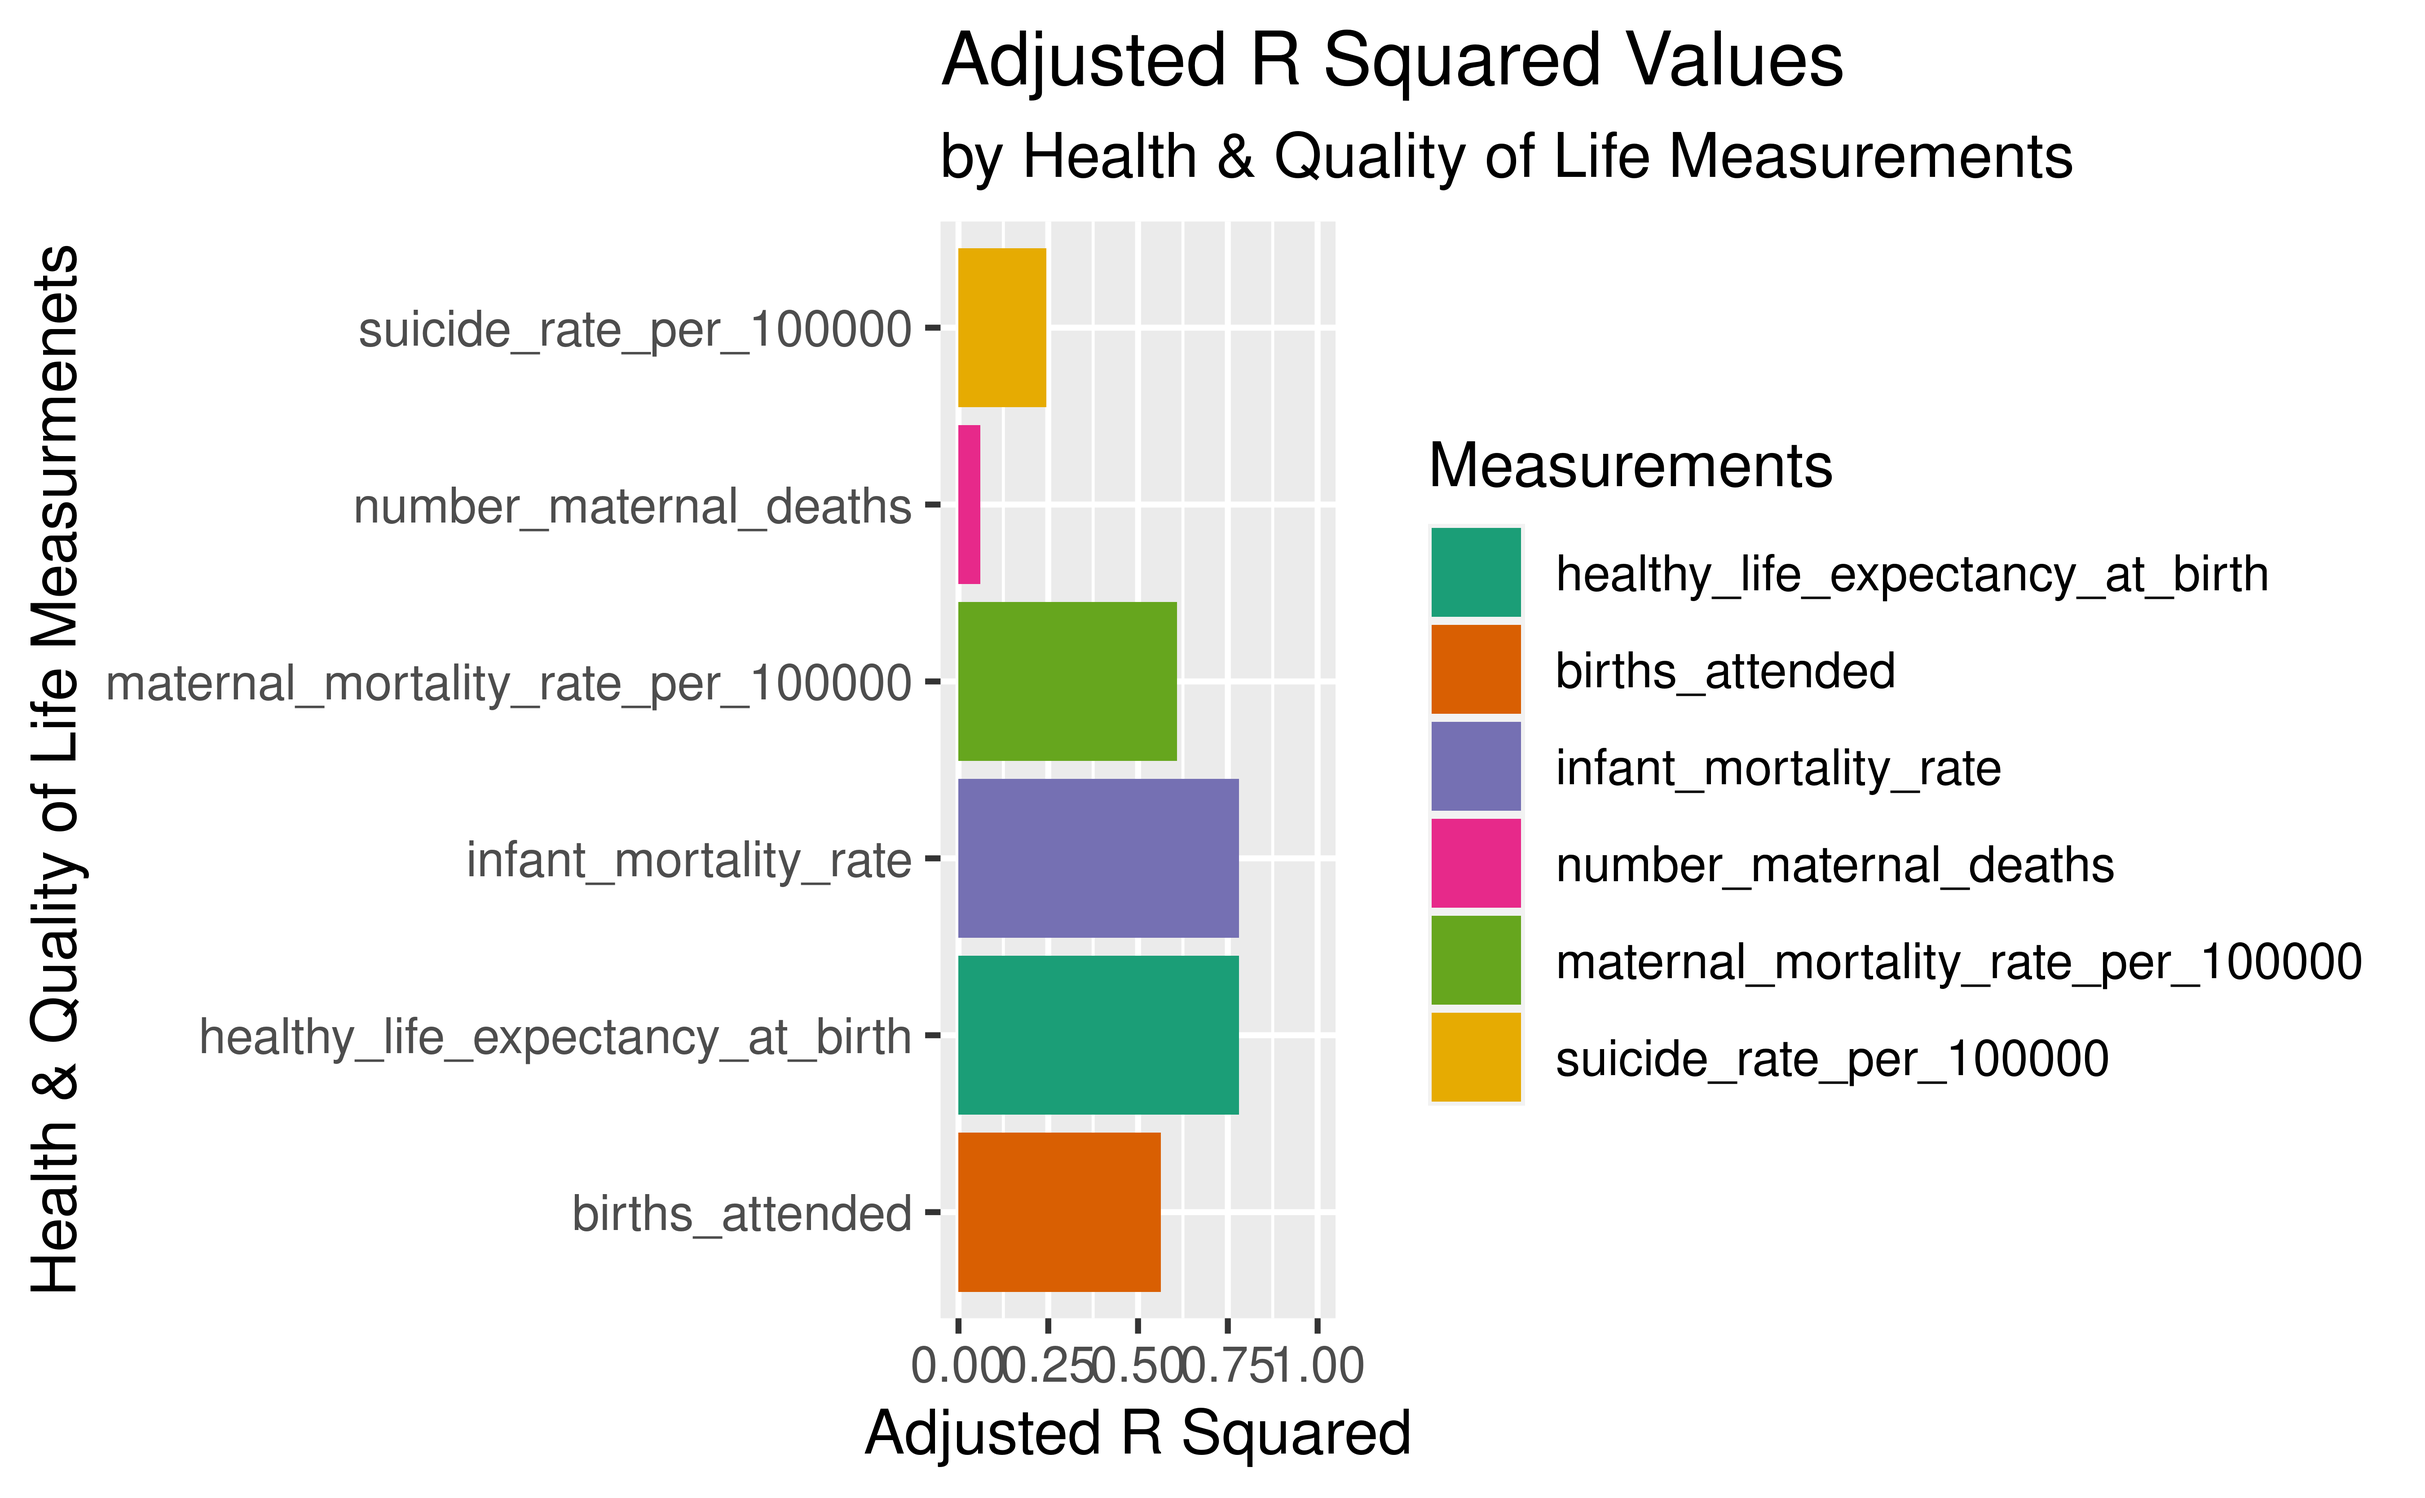
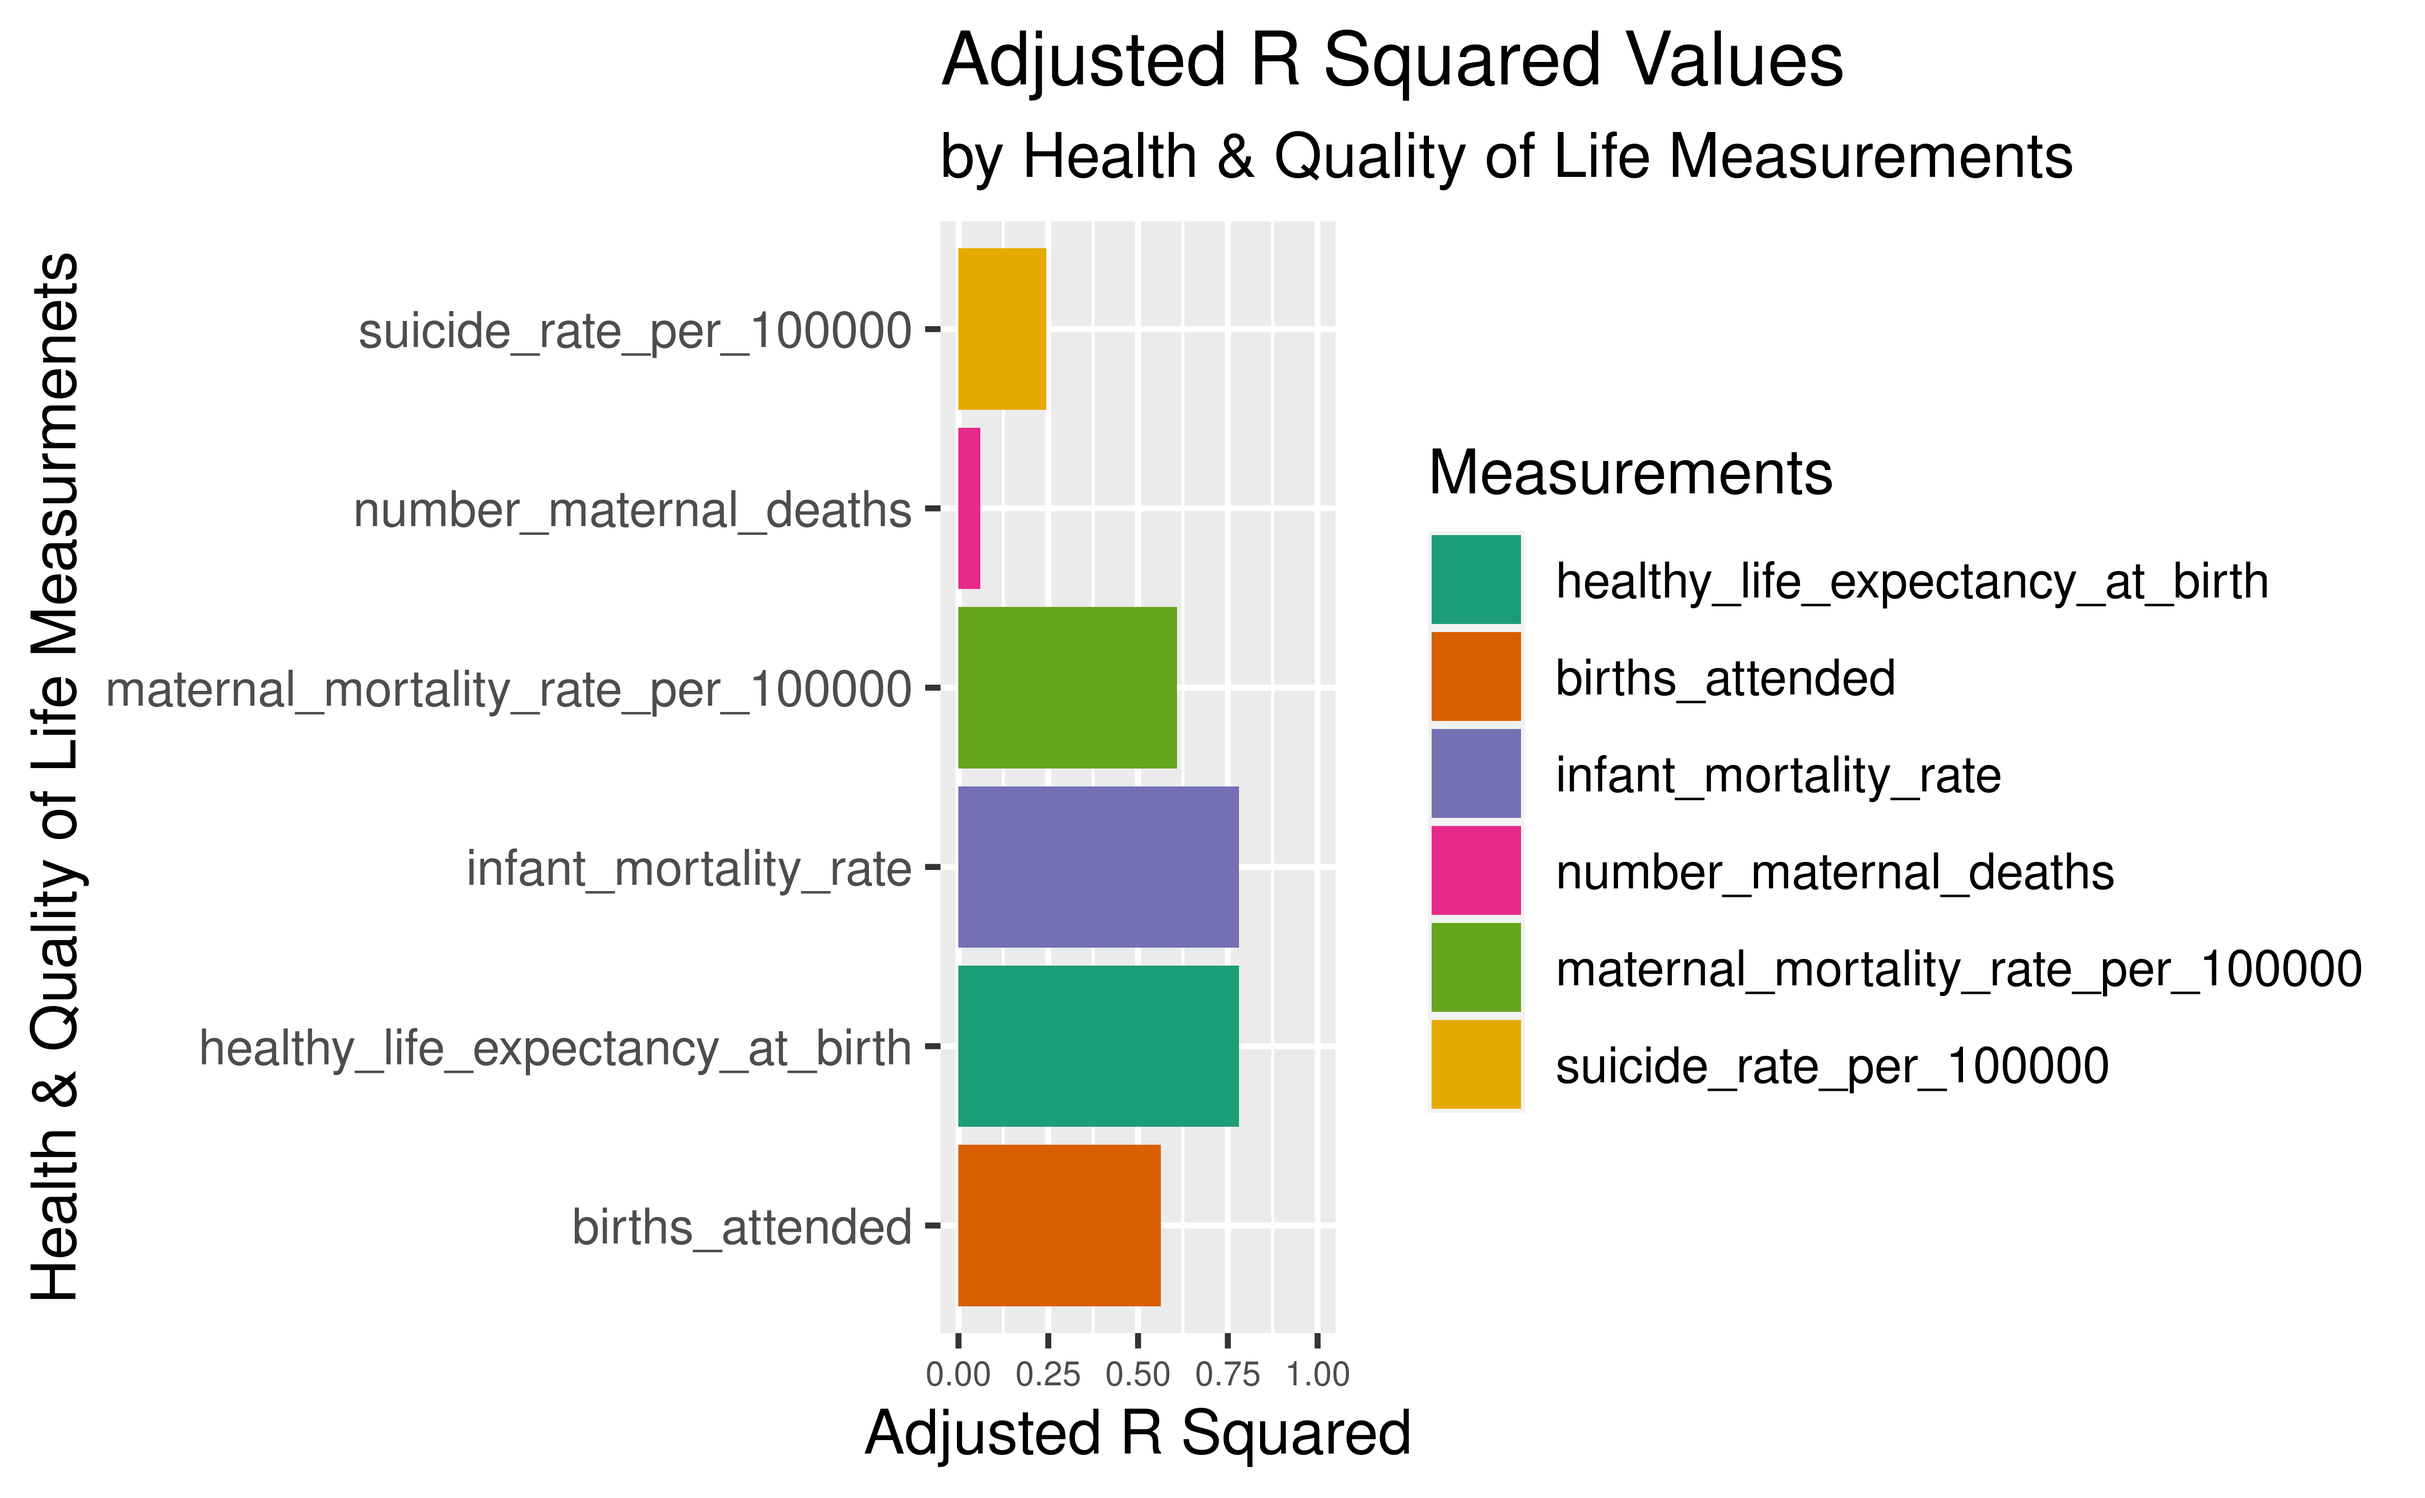
hide code

diff --git a/presentation/presentation.html b/presentation/presentation.html
@@ -311,23 +311,6 @@
 </section>
 <section id="adjusted-r-squared-of-regression-model-of-variables-vs-hdi-plot" class="slide level2" data-background-color="rgb(0, 34, 51)">
 <h2 data-background-color="rgb(0, 34, 51)">Adjusted R Squared of Regression Model of Variables vs HDI (Plot)</h2>
-<div class="sourceCode" id="cb21"><pre class="sourceCode r"><code class="sourceCode r"><span id="cb21-1"><a href="#cb21-1" aria-hidden="true" tabindex="-1"></a><span class="fu">ggplot</span>(<span class="at">data =</span> r_squared_HDI, <span class="fu">aes</span>(<span class="at">y =</span> variables, <span class="at">x =</span> adj_r_squared, <span class="at">fill =</span> variables)) <span class="sc">+</span></span>
-<span id="cb21-2"><a href="#cb21-2" aria-hidden="true" tabindex="-1"></a>  <span class="fu">geom_bar</span>(<span class="at">stat=</span><span class="st">&#39;identity&#39;</span>) <span class="sc">+</span></span>
-<span id="cb21-3"><a href="#cb21-3" aria-hidden="true" tabindex="-1"></a>  <span class="fu">scale_fill_manual</span>(<span class="at">values =</span> <span class="fu">c</span>(</span>
-<span id="cb21-4"><a href="#cb21-4" aria-hidden="true" tabindex="-1"></a>    <span class="st">&quot;healthy_life_expectancy_at_birth&quot;</span> <span class="ot">=</span> <span class="st">&quot;#1b9e77&quot;</span>,</span>
-<span id="cb21-5"><a href="#cb21-5" aria-hidden="true" tabindex="-1"></a>    <span class="st">&quot;births_attended&quot;</span> <span class="ot">=</span> <span class="st">&quot;#d95f02&quot;</span>,</span>
-<span id="cb21-6"><a href="#cb21-6" aria-hidden="true" tabindex="-1"></a>    <span class="st">&quot;infant_mortality_rate&quot;</span> <span class="ot">=</span> <span class="st">&quot;#7570b3&quot;</span>,</span>
-<span id="cb21-7"><a href="#cb21-7" aria-hidden="true" tabindex="-1"></a>    <span class="st">&quot;number_maternal_deaths&quot;</span> <span class="ot">=</span> <span class="st">&quot;#e7298a&quot;</span>,</span>
-<span id="cb21-8"><a href="#cb21-8" aria-hidden="true" tabindex="-1"></a>    <span class="st">&quot;maternal_mortality_rate_per_100000&quot;</span> <span class="ot">=</span> <span class="st">&quot;#66a61e&quot;</span>,</span>
-<span id="cb21-9"><a href="#cb21-9" aria-hidden="true" tabindex="-1"></a>    <span class="st">&quot;suicide_rate_per_100000&quot;</span> <span class="ot">=</span> <span class="st">&quot;#e6ab02&quot;</span></span>
-<span id="cb21-10"><a href="#cb21-10" aria-hidden="true" tabindex="-1"></a>  ))<span class="sc">+</span></span>
-<span id="cb21-11"><a href="#cb21-11" aria-hidden="true" tabindex="-1"></a>  <span class="fu">scale_x_continuous</span>(<span class="at">limits =</span> <span class="fu">c</span>(<span class="dv">0</span>, <span class="dv">1</span>)) <span class="sc">+</span> </span>
-<span id="cb21-12"><a href="#cb21-12" aria-hidden="true" tabindex="-1"></a>  <span class="fu">labs</span>(</span>
-<span id="cb21-13"><a href="#cb21-13" aria-hidden="true" tabindex="-1"></a>    <span class="at">y =</span> <span class="st">&quot;Health &amp; Quality of Life Measurmenets&quot;</span>,</span>
-<span id="cb21-14"><a href="#cb21-14" aria-hidden="true" tabindex="-1"></a>    <span class="at">x =</span> <span class="st">&quot;Adjusted R Squared&quot;</span>,</span>
-<span id="cb21-15"><a href="#cb21-15" aria-hidden="true" tabindex="-1"></a>    <span class="at">title =</span> <span class="st">&quot;Adjusted R Squared Values&quot;</span>,</span>
-<span id="cb21-16"><a href="#cb21-16" aria-hidden="true" tabindex="-1"></a>    <span class="at">subtitle =</span> <span class="st">&quot;by Health &amp; Quality of Life Measurements&quot;</span>,</span>
-<span id="cb21-17"><a href="#cb21-17" aria-hidden="true" tabindex="-1"></a>    <span class="at">fill =</span> <span class="st">&quot;Measurements&quot;</span>)</span></code></pre></div>
 <p><img src="presentation_files/figure-revealjs/adjusted%20r%20squared%20vs%20variables-1.png" width="80%" /></p>
 </section></section>
 <section id="adjusted-r-squared-interpretation" class="title-slide slide level1" data-background-color="rgb(0, 34, 51)">
